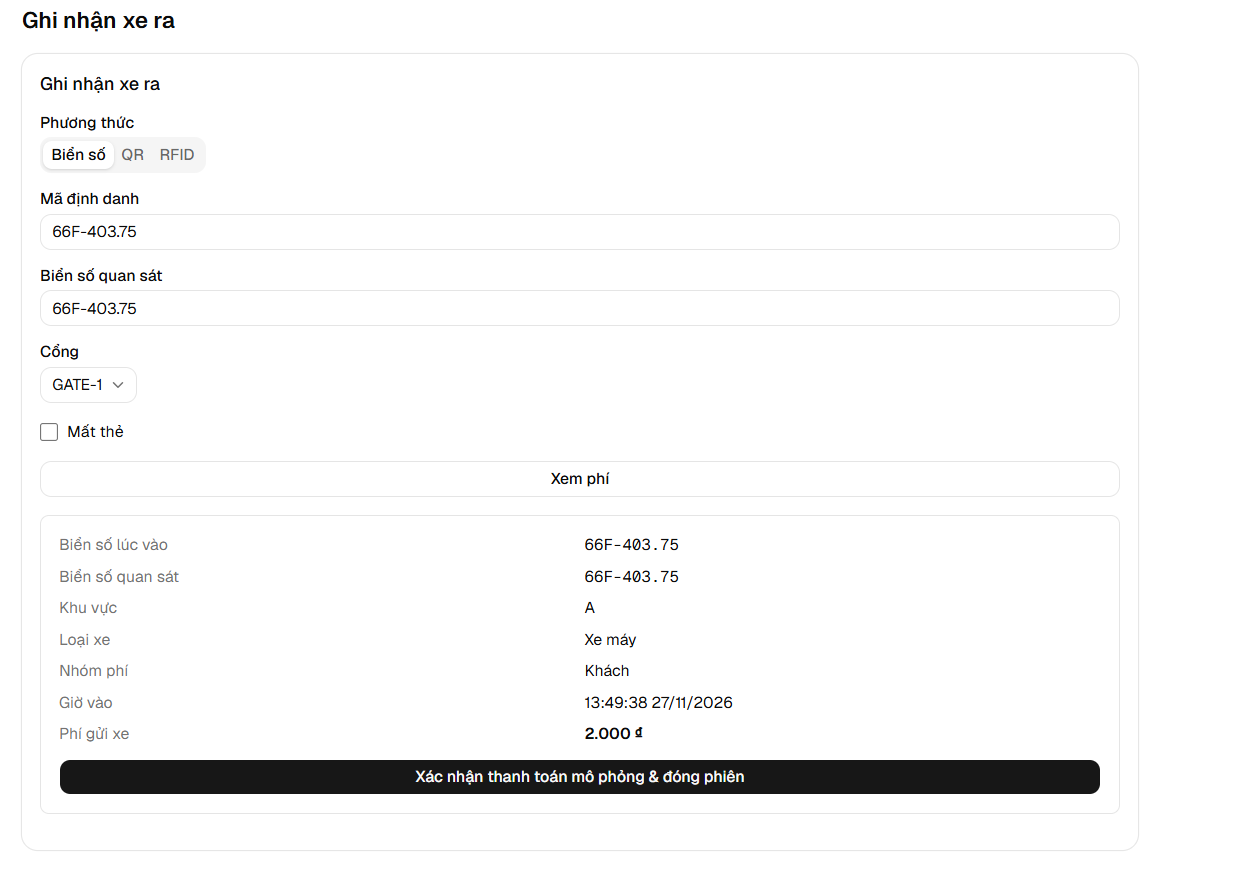
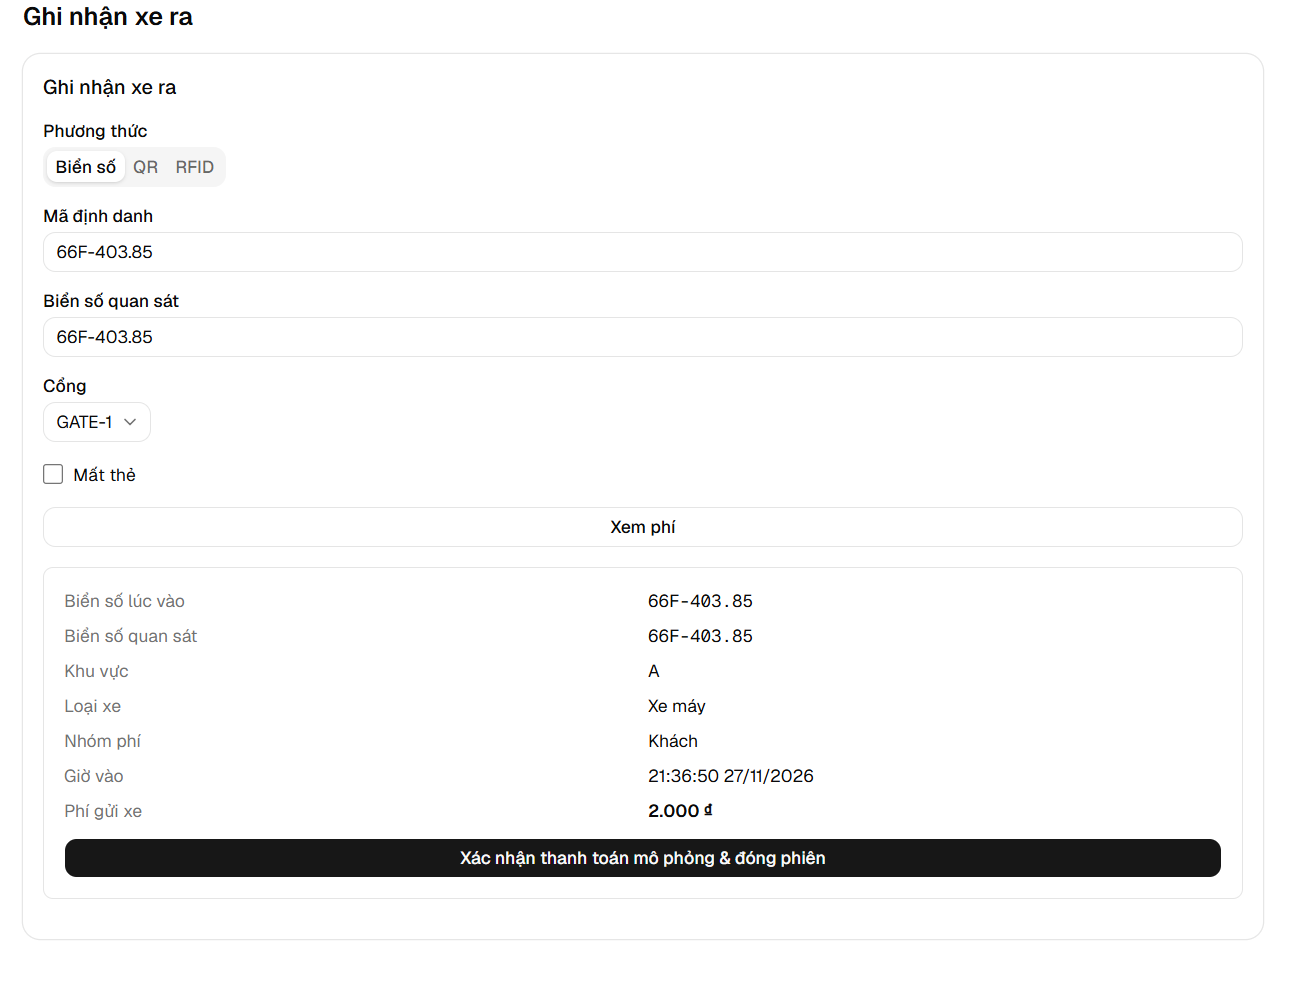
docs(final): D-04 final recheck on 66e175c, 4/4 pass (A-68, D-04, ISS-11)
Manual recheck of the normal flow on the form-model head 66e175c
(mismatch, preview cleared with the button usable, match, exit recorded
with the form cleared; times from dev.db). The screenshots replace those
of the e18e574 recheck. QE row cites 66e175c and the form-level test.

diff --git a/docs/final/res04/d04-retest.md b/docs/final/res04/d04-retest.md
@@ -3,9 +3,9 @@
 | Field | Value |
 |---|---|
 | Defect | A-68 D-04 (S2, owner RES-04, ISS-11): the Staff exit preview showed the plate recorded at entry under the label "Biển số quan sát" / "Observed plate" and never showed the plate Staff typed (`docs/m3/a-68-cp05-test.md`) |
-| Fix | Branch `fix/d04-exit-plate-labels`: `08a2bd4` (labels), `b97caab` and `e18e574` (late-response handling after the reviews of `12dae51` and `ca6867b`); spec `specs/008-d04-exit-plate-labels/` |
+| Fix | Branch `fix/d04-exit-plate-labels`: `08a2bd4` (labels), `b97caab`, `e18e574` and `66e175c` (late-response handling and the form model, after the reviews of `12dae51`, `ca6867b` and `e18e574`); spec `specs/008-d04-exit-plate-labels/` |
 | Acceptance | AT-EX02 (both plates shown); spec 008 SC-001..SC-004 |
-| Tester | Phạm Duy Quý (RES-04), 26/11/2026, 17:17–17:30 (steps 1–7 on `08a2bd4`); recheck 27/11/2026, 13:49–13:51 (on `e18e574`; an earlier recheck at 13:15–13:18 on `b97caab` also passed) |
+| Tester | Phạm Duy Quý (RES-04), 26/11/2026, 17:17–17:30 (steps 1–7 on `08a2bd4`); final recheck 27/11/2026, 21:36–21:39 (on `66e175c`; earlier rechecks on `b97caab` at 13:15–13:18 and on `e18e574` at 13:49–13:51 also passed) |
 | Environment | `npm run dev` on Windows, `dev.db` after `npx prisma migrate reset --force`; Staff `staff1@demo.local`; browser not recorded |
 | Script | `specs/008-d04-exit-plate-labels/quickstart.md`. Steps 3–6 were run in a different order from the quickstart (quickstart steps 6, 4, 3, 5) because the match check (quickstart step 4) cannot run after the mismatch exit has closed the session |
 | Timing source | Times below are read from `dev.db` (sessions, events, access log), not from the screen |
@@ -22,23 +22,23 @@
 | 6 | English; car `30K-777.88` in zone C; observed `30K-777.89` | "Plate at entry" and "Observed plate" (red), English warning, confirm disabled until ticked | **Pass**: `evidence/d04/step6-mismatch-en.png` (entry 17:29:10, Car, zone C, 10.000 đ) |
 | 7 | Lost card, identifier `30K-777.88`, observed `30K-777.88` | Both plates shown the same way, no mark | **Pass**: `evidence/d04/step7-lost-card-en.png` (preview only; the session was left open) |
 
-## Recheck after the review fixes (27/11, `e18e574`)
+## Recheck after the review fixes (27/11, final on `66e175c`)
 
-The review of `12dae51` found that a late preview response could show the live input next to a stale mismatch state. `b97caab` discards outdated responses and shows the plate each preview was computed for; `e18e574` moved the request handling into a tested controller. The owner's review of `e18e574` then found that an outdated request still held the preview button and could end a newer request's loading state, and that the form's own wiring had no form-level test. The final fix moves the whole form state (inputs, preview requests, loading state, confirm) into `createExitFormModel` (`src/lib/exitFormModel.ts`), which `ExitForm` only renders. The race cannot be reproduced reliably by hand (a preview takes tens of milliseconds). `tests/exit-form-model.test.ts` stages it at form level with deferred requests: editing the plate during a pending request releases the button and keeps the late preview hidden; with overlapping requests the older answer cannot end the newer loading state; confirm sends the plate of the current preview (mutation-checked). What remains untested is only the rendering of that state (no DOM test environment in the repo). The normal flow was rechecked by hand on `e18e574`; **a recheck on the final head is pending** (R1–R4 below must be repeated):
+The review of `12dae51` found that a late preview response could show the live input next to a stale mismatch state. `b97caab` discards outdated responses and shows the plate each preview was computed for; `e18e574` moved the request handling into a tested controller. The owner's review of `e18e574` then found that an outdated request still held the preview button and could end a newer request's loading state, and that the form's own wiring had no form-level test. The final fix moves the whole form state (inputs, preview requests, loading state, confirm) into `createExitFormModel` (`src/lib/exitFormModel.ts`), which `ExitForm` only renders. The race cannot be reproduced reliably by hand (a preview takes tens of milliseconds). `tests/exit-form-model.test.ts` stages it at form level with deferred requests: editing the plate during a pending request releases the button and keeps the late preview hidden; with overlapping requests the older answer cannot end the newer loading state; confirm sends the plate of the current preview (mutation-checked). What remains untested is only the rendering of that state (no DOM test environment in the repo). The normal flow was rechecked by hand on the final code `66e175c` (the screenshots replace those of the `e18e574` recheck):
 
 | Step | Action | Expected | Result |
 |---|---|---|---|
-| R1 | Entry `66F-403.75`, zone A, motorbike; exit preview with observed `66F-403.76` | Both plates under their labels, observed plate in red, warning, confirm disabled | **Pass**: `evidence/d04/final-1-mismatch-vi.png` (entry 13:49:38; box unticked, confirm disabled) |
-| R2 | Change the observed plate to `66F-403.75` | Preview disappears | **Pass**: `evidence/d04/final-2-preview-cleared-vi.png` |
+| R1 | Entry `66F-403.85`, zone A, motorbike; exit preview with observed `66F-403.86` | Both plates under their labels, observed plate in red, warning, confirm disabled | **Pass**: `evidence/d04/final-1-mismatch-vi.png` (entry 21:36:50; box unticked, confirm disabled) |
+| R2 | Change the observed plate to `66F-403.85` | Preview disappears; the Preview button is usable at once | **Pass**: `evidence/d04/final-2-preview-cleared-vi.png` |
 | R3 | Preview again | Both plates, no red mark, no warning, confirm enabled | **Pass**: `evidence/d04/final-3-match-vi.png` |
-| R4 | Confirm | Success; no mismatch event | **Pass**: `evidence/d04/final-4-exit-recorded-vi.png`; `dev.db`: closed 13:50:36, fee 2.000 đ, no session event |
+| R4 | Confirm | Success; no mismatch event | **Pass**: `evidence/d04/final-4-exit-recorded-vi.png`; `dev.db`: closed 21:39:04, fee 2.000 đ, no session event; the form fields are cleared |
 
 **Verdict: Pass.** On a mismatch both plates are on screen with their own labels in both languages (SC-001, SC-002), and the observed plate is marked. The entry plate no longer appears under the observed-plate label. Manual confirmation, the event note and the access log behave as before (SC-004). AT-EX02's "both plates shown" condition is met (SC-003). D-04 can be closed once this branch is merged.
 
 ## Paste-ready row for the workbook Quality Evidence sheet (for RES-03, F3-05)
 
 ```text
-A-68 D-04 retest | P05 exit preview | fix/d04-exit-plate-labels e18e574 | 26–27/11/2026 | Pass: 7/7 steps on 08a2bd4, 4/4 recheck on e18e574; entry plate and observed plate under their own labels in vi and en, observed plate marked on mismatch; PLATE_MISMATCH_CONFIRMED and MANUAL_CONFIRM unchanged; render test exit-preview-details.test.ts 3/3, late-response tests request-guard.test.ts 3/3 and exit-preview-controller.test.ts 7/7, vitest 396/396 | RES-04 | docs/final/res04/d04-retest.md
+A-68 D-04 retest | P05 exit preview | fix/d04-exit-plate-labels 66e175c | 26–27/11/2026 | Pass: 7/7 steps on 08a2bd4, 4/4 recheck on 66e175c; entry plate and observed plate under their own labels in vi and en, observed plate marked on mismatch; PLATE_MISMATCH_CONFIRMED and MANUAL_CONFIRM unchanged; render test exit-preview-details.test.ts 3/3, late-response tests request-guard.test.ts 3/3 and form-level exit-form-model.test.ts 7/7, vitest 396/396 | RES-04 | docs/final/res04/d04-retest.md
 ```
 
 **D-04 status for ISS-11:** fixed and retested on 26/11, rechecked on 27/11 after the review fix (pending merge of `fix/d04-exit-plate-labels`). RES-05 (A-68) and RES-02 (CP-05 gate) record it in their own files.
